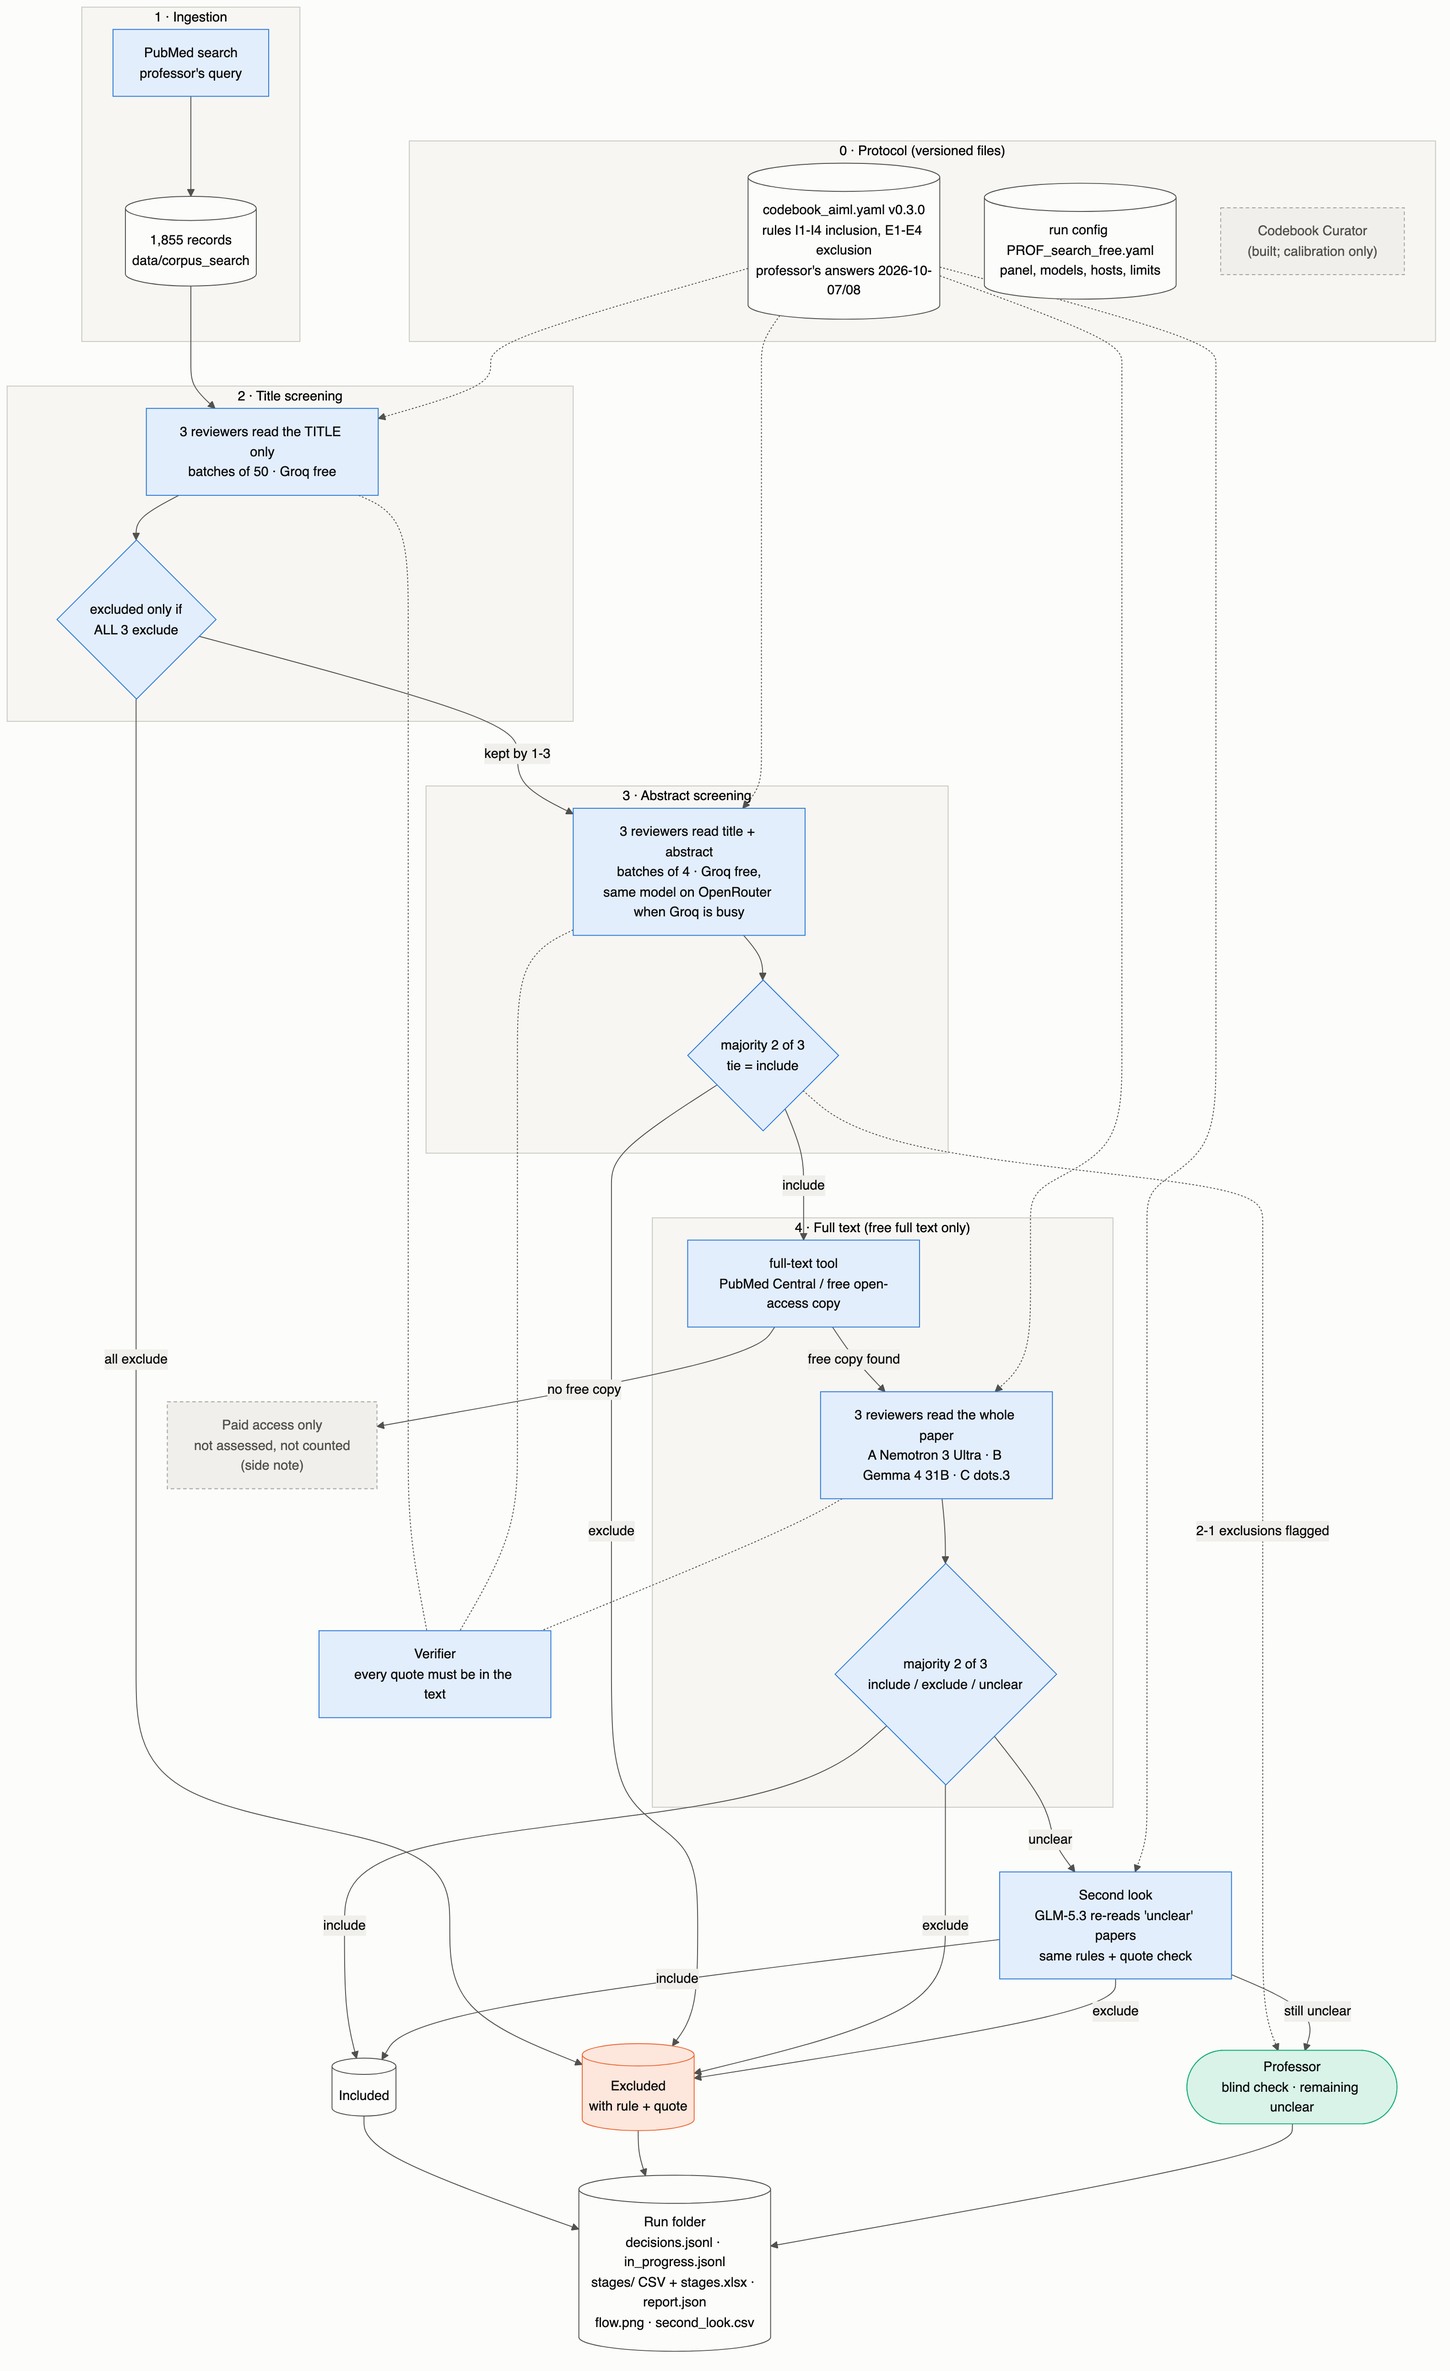
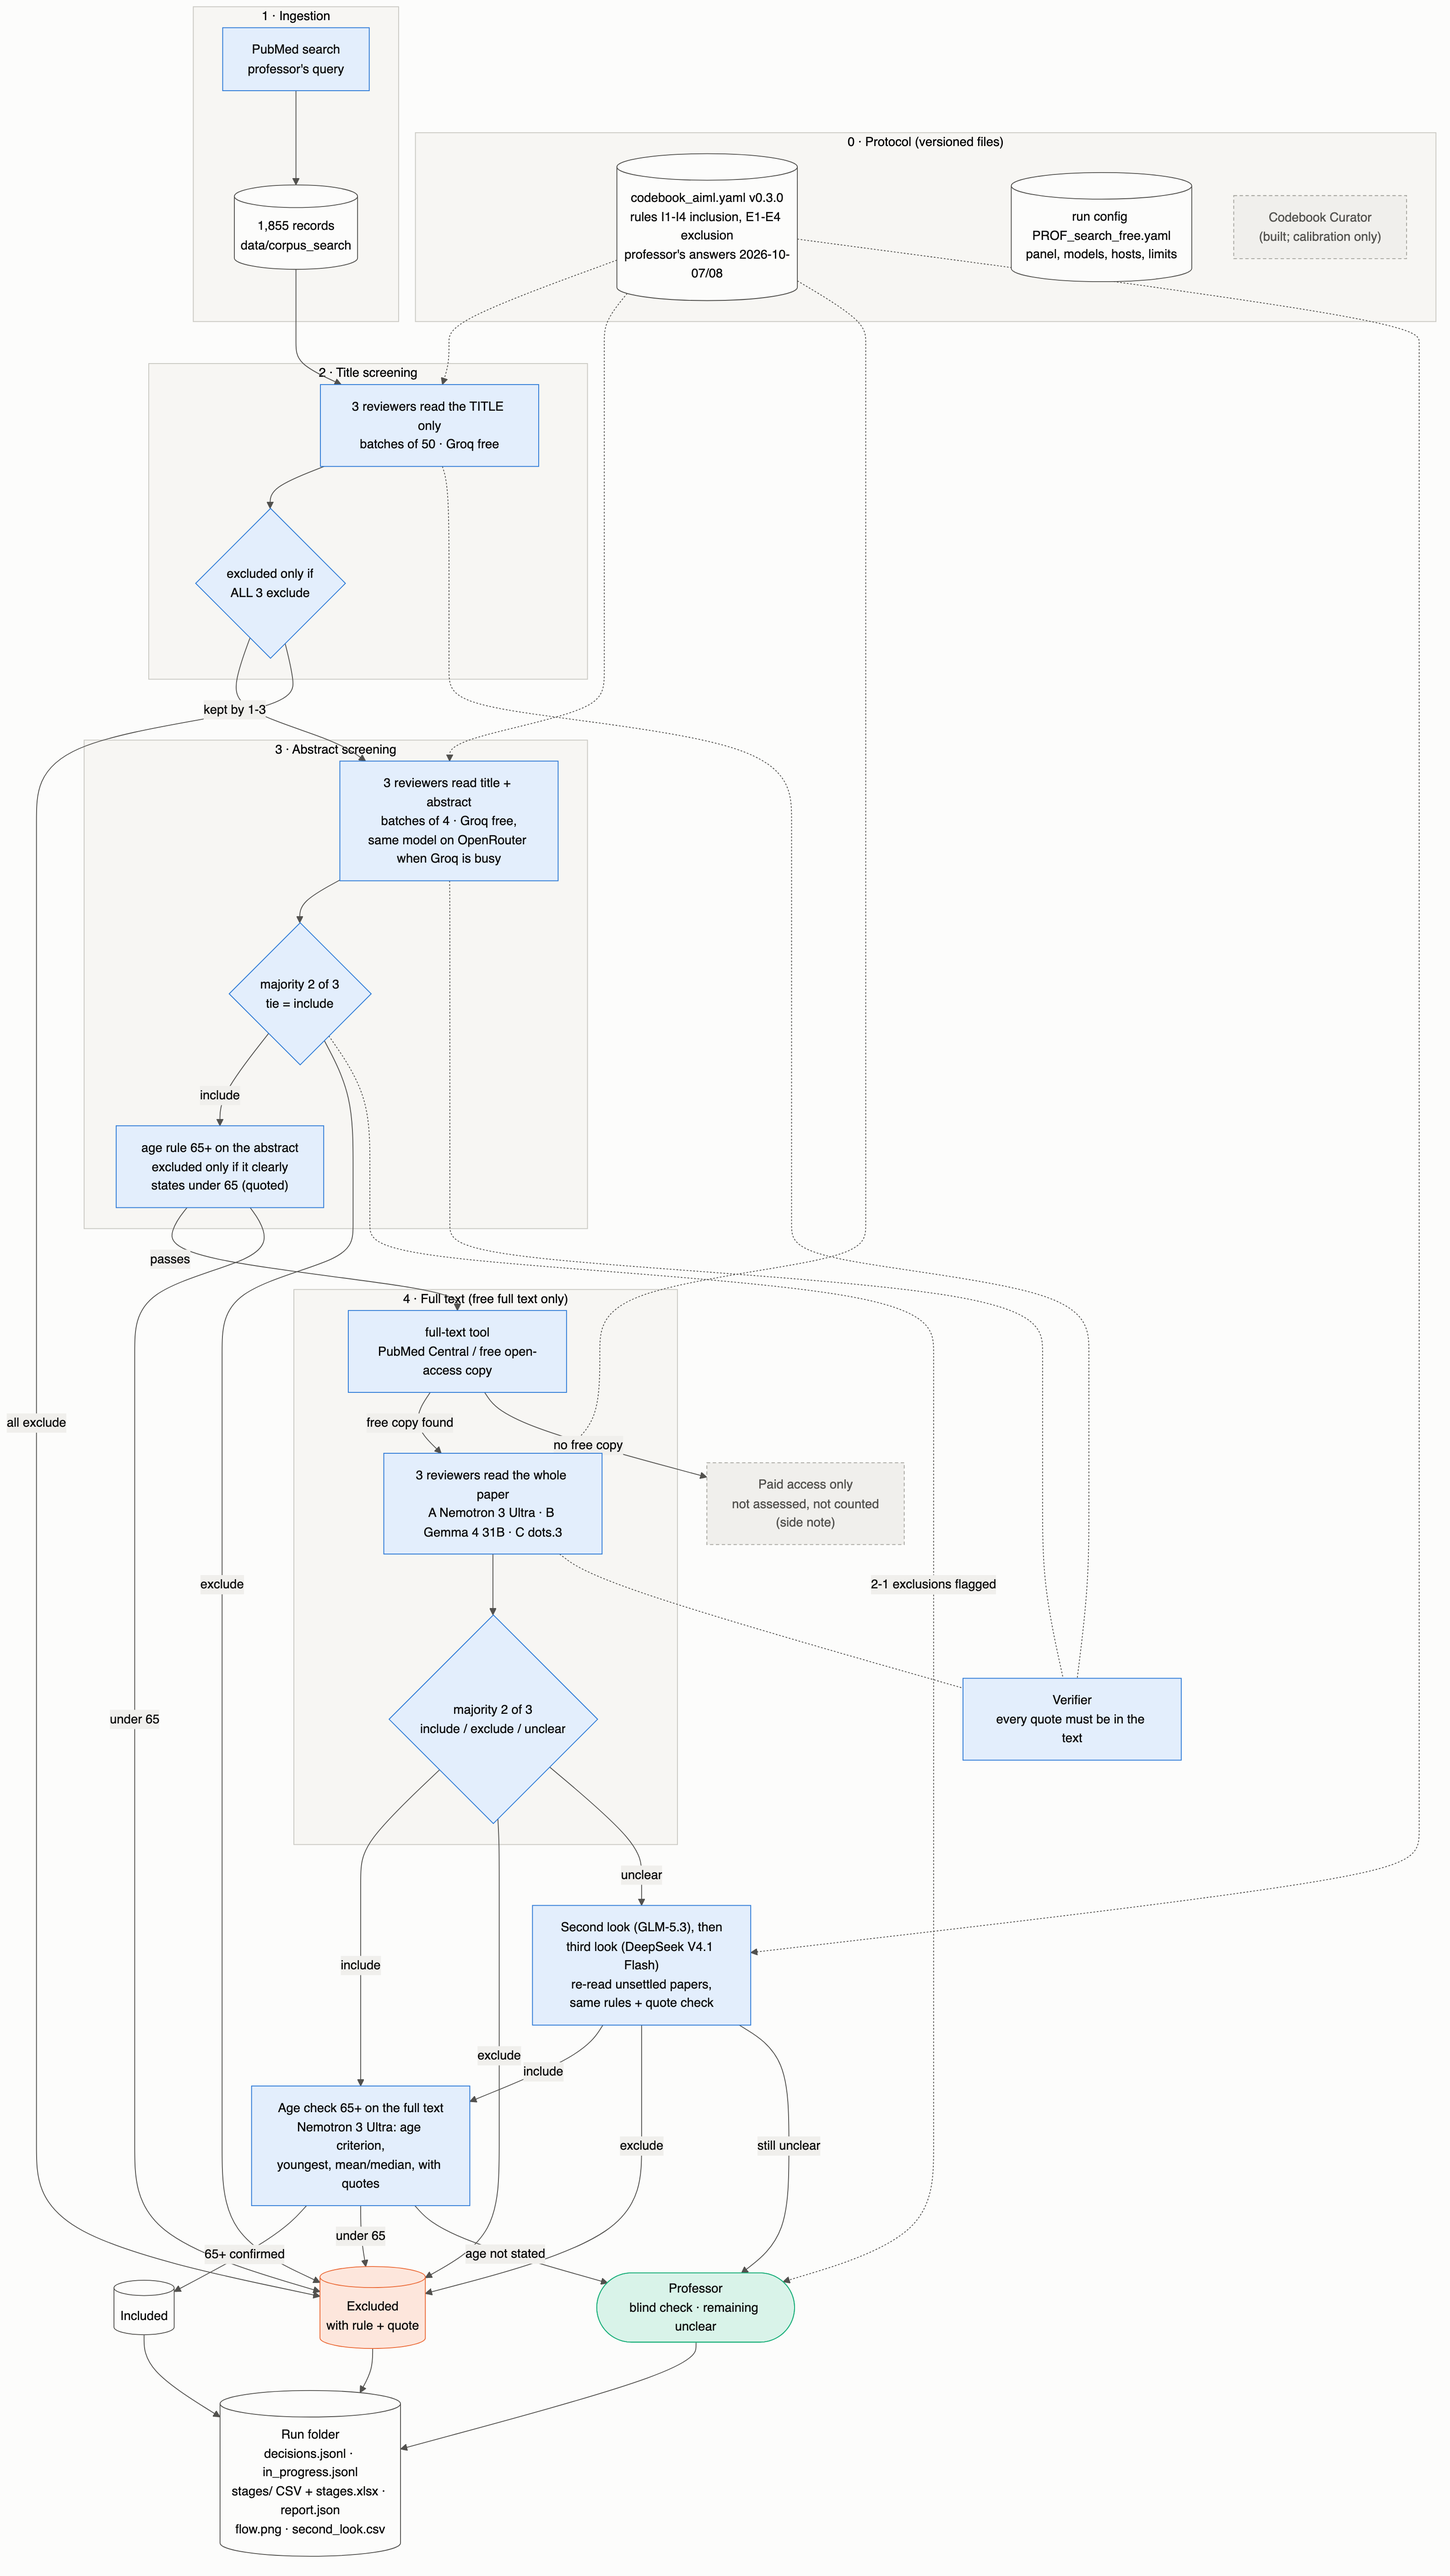
System overview with age checks and third look; progress log

diff --git a/docs/PROGRESS.md b/docs/PROGRESS.md
@@ -24,7 +24,11 @@ Not counted: 163 free copies still to save by hand; 310 paid access only. For th
 
 **Final (with the third look):** titles 1,855 → 1,602; abstracts → 1,182 (420 excluded); free full text 709 → **408 included**, 143 excluded, **152 for the professor** (94 do not report age, 53 cannot be confirmed 65+, 5 other rules), 6 not finished. Three per-stage CSVs (`final/stage1_titles.csv`, `stage2_abstracts.csv`, `stage3_fulltext.csv`) list every paper at each stage with its decision, reason and quotes.
 
-**Tests: 158 pass.**
+**Reliability and accuracy** (`eval/accuracy.py` → `final/accuracy.json`): Fleiss κ among A, B, C: titles 0.40 (fair, all three agree 60%), abstracts 0.55 (moderate, 75%), full text 0.42 (moderate, 67%; A-C κ 0.69, B with either ≈0.27-0.30). 78% of the quotes the reviewers gave were verbatim; the other 22% were discarded (rule counted unclear). Accuracy against human decisions exists only on the CLEF calibration set (recall 0.77, precision 0.77, κ 0.66; context only). Accuracy on this search: the professor's blind random check, scored by `python -m adrd_review.eval.accuracy <run> --check <filled xlsx>` (accuracy, sensitivity, specificity, precision, NPV, κ, 95% Wilson intervals).
+
+**Simple package** (`scripts/make_report.py`): 1_Report.pdf, 2-4 stage CSVs, 5_For_Your_Decision.csv, 6_Random_Check.xlsx; answer key in send_later/; everything else in extras/.
+
+**Tests: 159 pass.**
 
 ---
 
